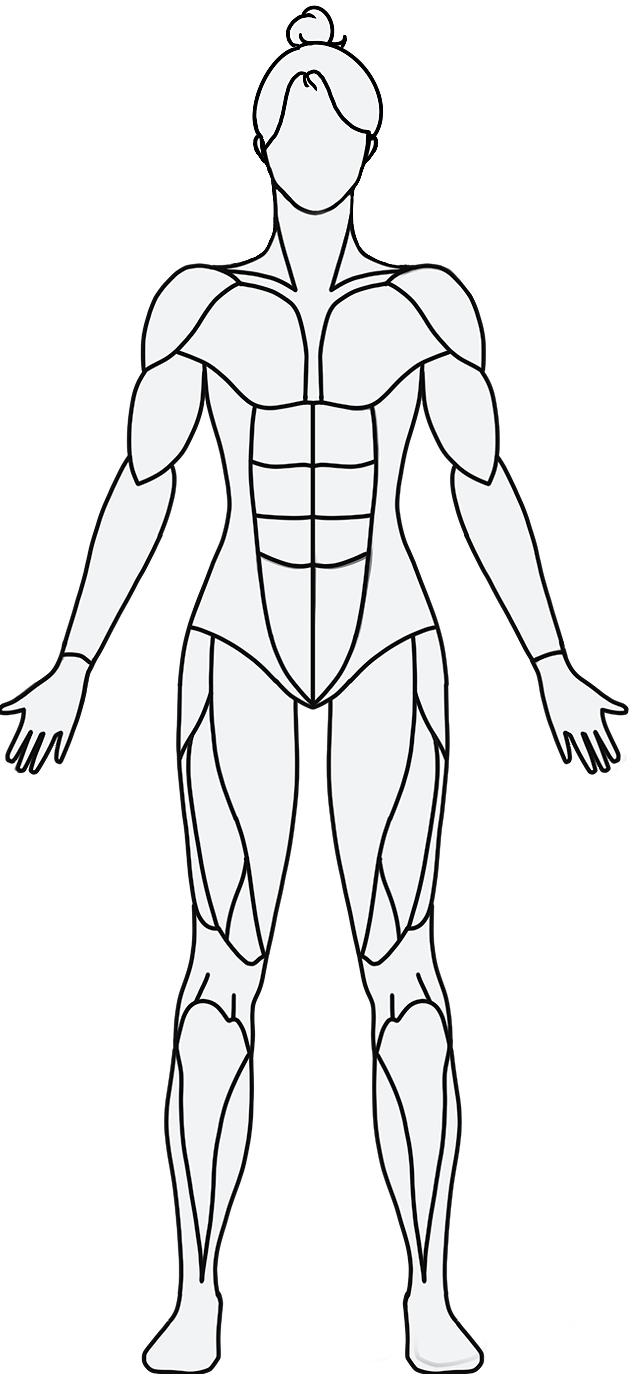
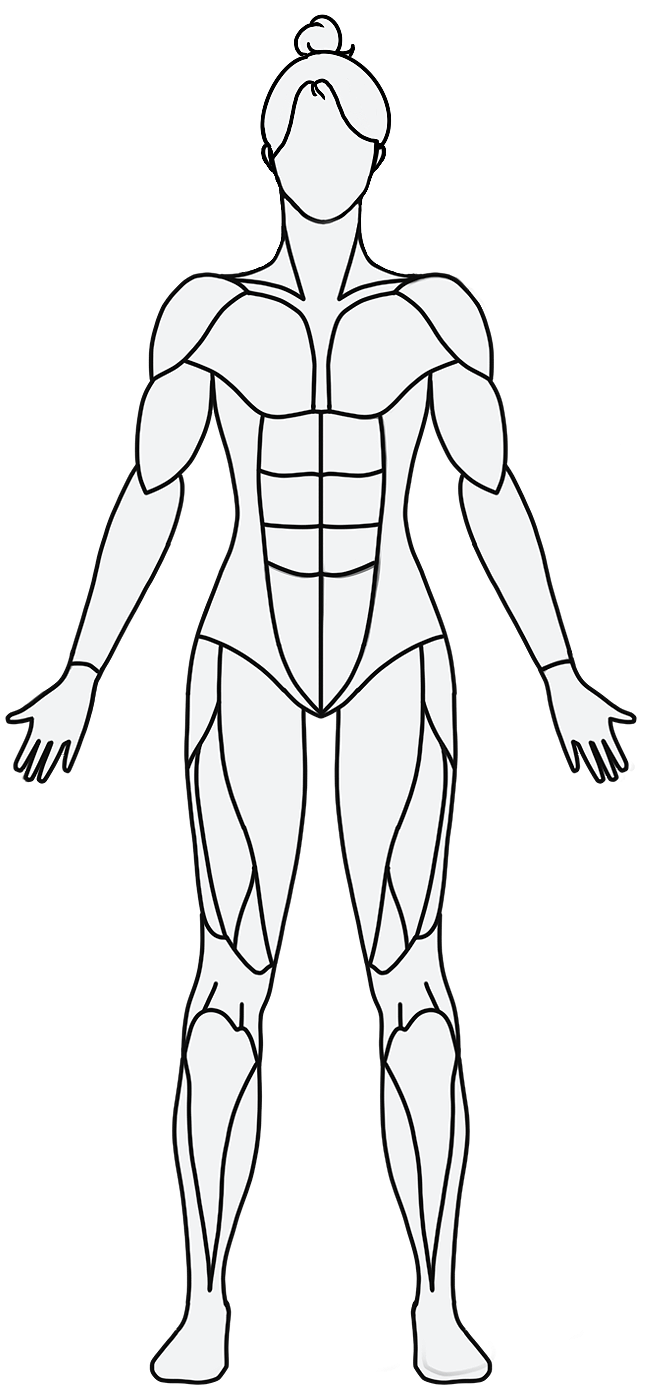
WW-feature: Muscle Man & Woman Complete

diff --git a/Mobile/components/ExerciseNow/MuscleWoman.js b/Mobile/components/ExerciseNow/MuscleWoman.js
@@ -56,100 +56,104 @@ const MuscleWoman = () => {
         width={screenWidth}
         height={screenHeight / 2}
       >
-        <Parts source={traps_a} top="-20.9%" left="0.97%" scale="scale(0.05)" />
-        <Parts source={traps_b} top="-20.9%" left="8.8%" scale="scale(0.05)" />
-        {/*<Parts
+        <Parts source={traps_a} top="-20.5%" left="0.97%" scale="scale(0.05)" />
+        <Parts source={traps_b} top="-20.5%" left="8.8%" scale="scale(0.05)" />
+        <Parts
           source={shoulders_a}
-          top="-18.35%"
-          left="-5.19%"
-          scale="scale(0.1046)"
+          top="-26.3%"
+          left="-6.69%"
+          width="95%"
+          height="100%"
+          scale="scale(0.074)"
         />
         <Parts
           source={shoulders_b}
-          top="-18.34%"
-          left="15.15%"
-          scale="scale(0.105)"
+          top="-26.35%"
+          left="11.6%"
+          width="95%"
+          height="100%"
+          scale="scale(0.072)"
         />
         <Parts
           source={pecs}
-          top="-2.15%"
-          left="-14.97%"
-          width="130%"
+          top="0.65%"
+          left="0%"
+          width="100%"
           height="50%"
-          scale="scale(0.169)"
+          scale="scale(0.171)"
         />
         <Parts
           source={biceps_a}
-          top="-25.15%"
-          left="1.72%"
-          width="70%"
-          height="110%"
-          scale="scale(0.097)"
+          top="-29.28%"
+          left="3.02%"
+          width="72%"
+          height="120%"
+          scale="scale(0.0745)"
         />
         <Parts
           source={biceps_b}
-          top="-25.15%"
-          left="28.16%"
-          width="70%"
-          height="110%"
-          scale="scale(0.097)"
+          top="-29.28%"
+          left="24.92%"
+          width="72%"
+          height="120%"
+          scale="scale(0.0745)"
         />
         <Parts
           source={forearm_a}
-          top="-24.95%"
-          left="-18%"
-          width="100%"
-          height="129%"
-          scale="scale(0.111)"
+          top="-9%"
+          left="6.35%"
+          width="58%"
+          height="100%"
+          scale="scale(0.14)"
         />
         <Parts
           source={forearm_b}
-          top="-24.95%"
-          left="17.95%"
-          width="100%"
-          height="129%"
-          scale="scale(0.111)"
+          top="-9.1%"
+          left="35.45%"
+          width="58%"
+          height="100%"
+          scale="scale(0.14)"
         />
         <Parts
           source={obliques}
-          top="-15.75%"
-          left="9.96%"
+          top="-14.59%"
+          left="10.15%"
           width="79.55%"
-          height="98%"
-          scale="scale(0.136)"
+          height="100%"
+          scale="scale(0.115)"
         />
         <Parts
           source={quads_a}
-          top="-15.35%"
-          left="12.74%"
-          width="61.5%"
-          height="141.2%"
-          scale="scale(0.177)"
+          top="7.85%"
+          left="25.8%"
+          width="37%"
+          height="100%"
+          scale="scale(0.23)"
         />
         <Parts
           source={quads_b}
-          top="-15.35%"
-          left="25.69%"
-          width="61.5%"
-          height="141.2%"
-          scale="scale(0.176)"
+          top="7.85%"
+          left="37.1%"
+          width="37%"
+          height="100%"
+          scale="scale(0.23)"
         />
         <Parts
           source={calves_a}
-          top="19.5%"
-          left="18.22%"
-          width="45.7%"
-          height="121.15%"
-          scale="scale(0.161)"
+          top="17.8%"
+          left="16.68%"
+          width="51%"
+          height="132.5%"
+          scale="scale(0.124)"
         />
         <Parts
           source={calves_b}
-          top="19.5%"
-          left="36%"
-          width="45.7%"
-          height="121.15%"
-          scale="scale(0.161)"
-        /> */}
+          top="15.7%"
+          left="30.67%"
+          width="54%"
+          height="137%"
+          scale="scale(0.115)"
+        />
         <Image source={female} style={styles.image} />
       </Container>
       <Container
@@ -158,134 +162,134 @@ const MuscleWoman = () => {
         width={screenWidth}
         height={screenHeight / 2}
       >
-        {/* <Parts
+        <Parts
           source={back_traps_a}
           width="100%"
-          height="39.6%"
-          top="-6.09%"
-          left="0.035%"
-          scale="scale(0.117)"
+          height="32.6%"
+          top="-0.09%"
+          left="-0.315%"
+          scale="scale(0.13)"
         />
         <Parts
           source={back_traps_b}
-          top="-26.7%"
-          left="12.26%"
-          width="76%"
+          top="-24.1%"
+          left="8.52%"
+          width="82.5%"
           height="100%"
-          scale="scale(0.176)"
+          scale="scale(0.168)"
         />
         <Parts
           source={back_shoulders_a}
-          top="-22.6%"
-          left="-10.66%"
+          top="-25.5%"
+          left="-10%"
           width="100%"
-          height="86.3%"
-          scale="scale(0.094)"
+          height="95%"
+          scale="scale(0.079)"
         />
         <Parts
           source={back_shoulders_b}
-          top="-22.1%"
-          left="11.26%"
+          top="-25.5%"
+          left="9.45%"
           width="100%"
-          height="85.2%"
-          scale="scale(0.0945)"
+          height="95%"
+          scale="scale(0.078)"
         />
         <Parts
           source={triceps_a}
-          top="-33.45%"
-          left="-3.96%"
-          width="80%"
-          height="124.5%"
-          scale="scale(0.0945)"
+          top="-19.75%"
+          left="15.1%"
+          width="46%"
+          height="100%"
+          scale="scale(0.112)"
         />
         <Parts
           source={triceps_b}
-          top="-34.1%"
-          left="24.46%"
-          width="80%"
-          height="125.8%"
-          scale="scale(0.0945)"
+          top="-19.75%"
+          left="38.4%"
+          width="46%"
+          height="100%"
+          scale="scale(0.112)"
         />
         <Parts
           source={back_lats_a}
-          top="-26.2%"
-          left="9.5%"
-          width="70.5%"
-          height="118.9%"
-          scale="scale(0.1385)"
+          top="-14.3%"
+          left="21.95%"
+          width="47.5%"
+          height="100%"
+          scale="scale(0.1625)"
         />
         <Parts
           source={back_lats_b}
-          top="-26.2%"
-          left="20.5%"
-          width="70.5%"
-          height="118.9%"
-          scale="scale(0.1385)"
+          top="-14.3%"
+          left="30.1%"
+          width="47.5%"
+          height="100%"
+          scale="scale(0.1625)"
         />
         <Parts
           source={back_lower}
-          top="-11%"
-          left="8.5%"
-          width="83.5%"
+          top="-9.1%"
+          left="9.5%"
+          width="80.5%"
           height="100%"
-          scale="scale(0.1325)"
+          scale="scale(0.125)"
         />
         <Parts
           source={back_forearms_a}
-          top="-9.46%"
-          left="-2.8%"
-          width="67%"
-          height="101%"
-          scale="scale(0.1535)"
+          top="-7.46%"
+          left="12.6%"
+          width="45%"
+          height="100%"
+          scale="scale(0.1435)"
         />
         <Parts
           source={back_forearms_b}
-          top="-9.46%"
-          left="36.15%"
-          width="67%"
-          height="101%"
-          scale="scale(0.1535)"
+          top="-7.46%"
+          left="41.9%"
+          width="45%"
+          height="100%"
+          scale="scale(0.1435)"
         />
         <Parts
           source={back_glutes}
-          top="6.3%"
-          left="-14.75%"
-          width="130%"
-          height="85%"
-          scale="scale(0.159)"
+          top="17.6%"
+          left="-0.26%"
+          width="100%"
+          height="66%"
+          scale="scale(0.188)"
         />
         <Parts
           source={back_hamstrings_a}
-          top="-14.1%"
-          left="10.15%"
-          width="67.3%"
-          height="153%"
-          scale="scale(0.1645)"
+          top="13.9%"
+          left="25.75%"
+          width="36%"
+          height="100%"
+          scale="scale(0.255)"
         />
         <Parts
           source={back_hamstrings_b}
-          top="-13.9%"
-          left="23.1%"
-          width="67.3%"
-          height="153%"
-          scale="scale(0.1645)"
+          top="13.9%"
+          left="37.75%"
+          width="36%"
+          height="100%"
+          scale="scale(0.255)"
         />
         <Parts
           source={back_calves_a}
-          top="32.65%"
-          left="16.8%"
-          width="45%"
-          height="90%"
-          scale="scale(0.169)"
+          top="27.65%"
+          left="13.55%"
+          width="58%"
+          height="100%"
+          scale="scale(0.118)"
         />
         <Parts
           source={back_calves_b}
-          top="32.65%"
-          left="38.8%"
-          width="45%"
-          height="90%"
-          scale="scale(0.169)"
-        /> */}
+          top="27.65%"
+          left="27.95%"
+          width="58%"
+          height="100%"
+          scale="scale(0.118)"
+        />
         <Image source={female2} style={styles.image} />
       </Container>
     </Container>

diff --git a/Mobile/navigation/Exercise.js b/Mobile/navigation/Exercise.js
@@ -11,7 +11,6 @@ const Exercise = () => {
       <ScrollView
         horizontal
         pagingEnabled
-        contentContainerStyle={styles.scroll}
       >
         <MuscleMan/>
         <MuscleWoman/>
@@ -20,8 +19,5 @@ const Exercise = () => {
   );
 };
 
-const styles = StyleSheet.create({
-
-});
 
 export default Exercise;
